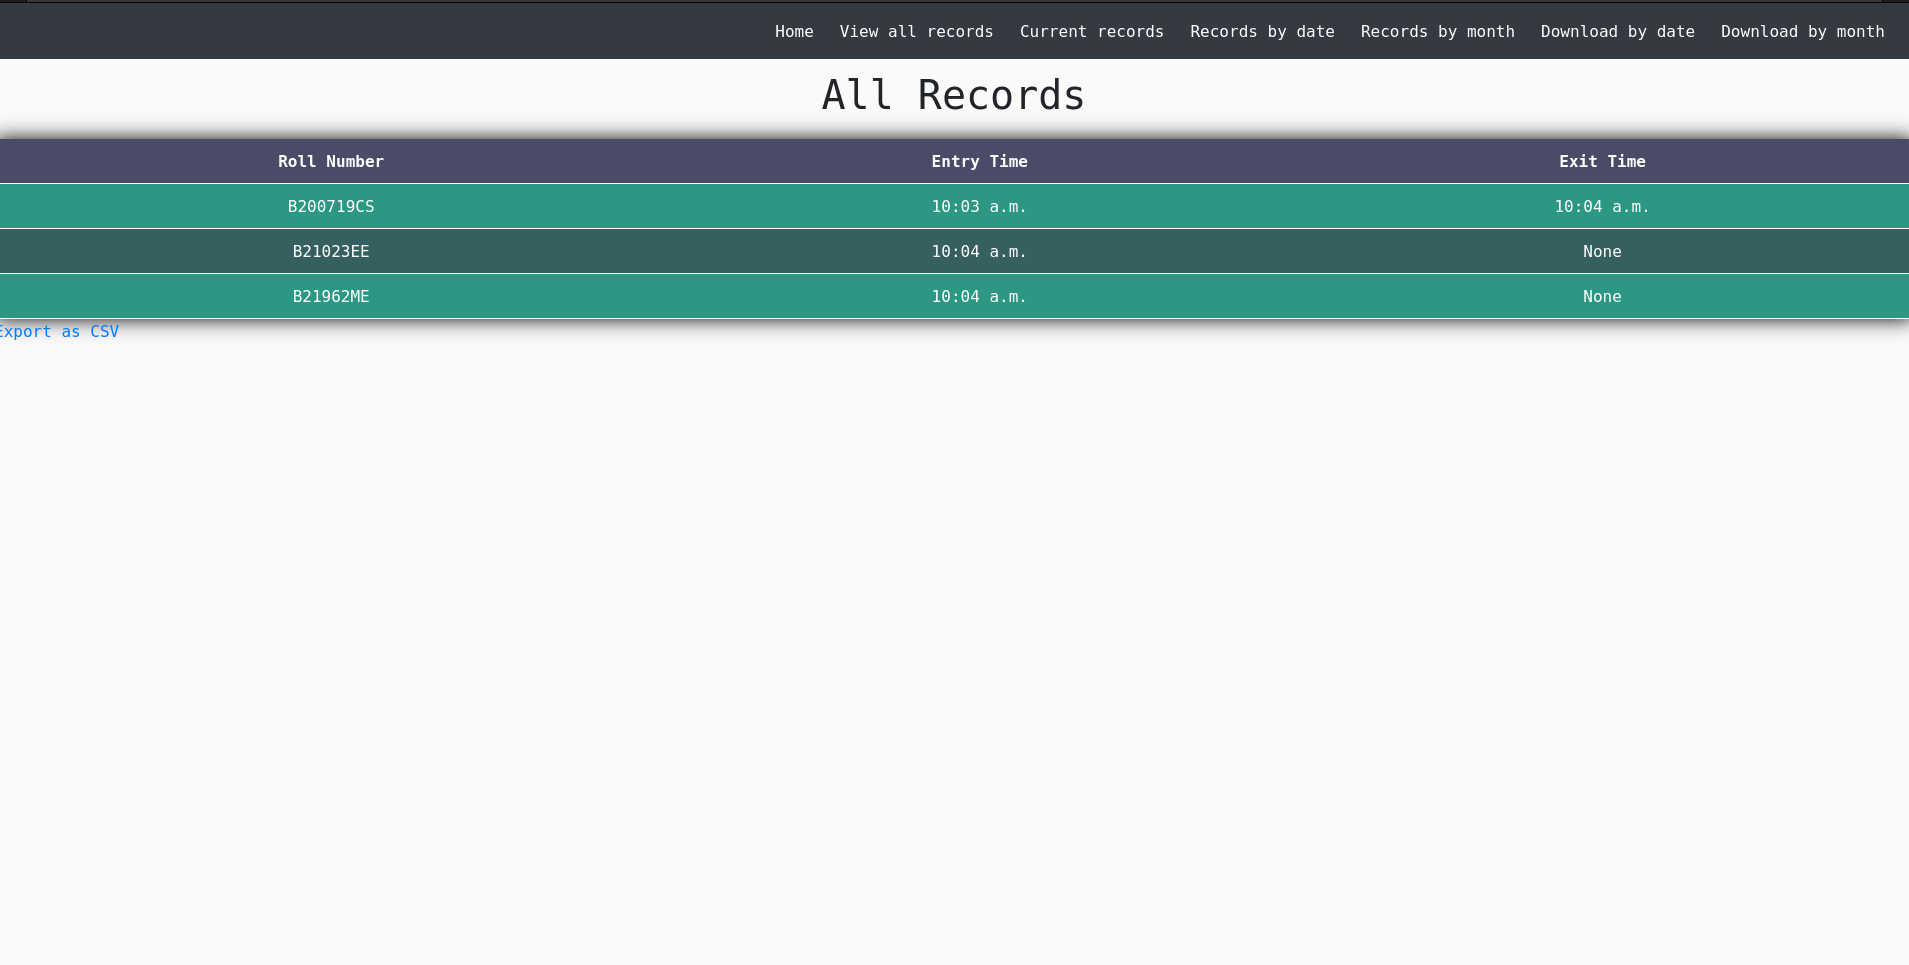
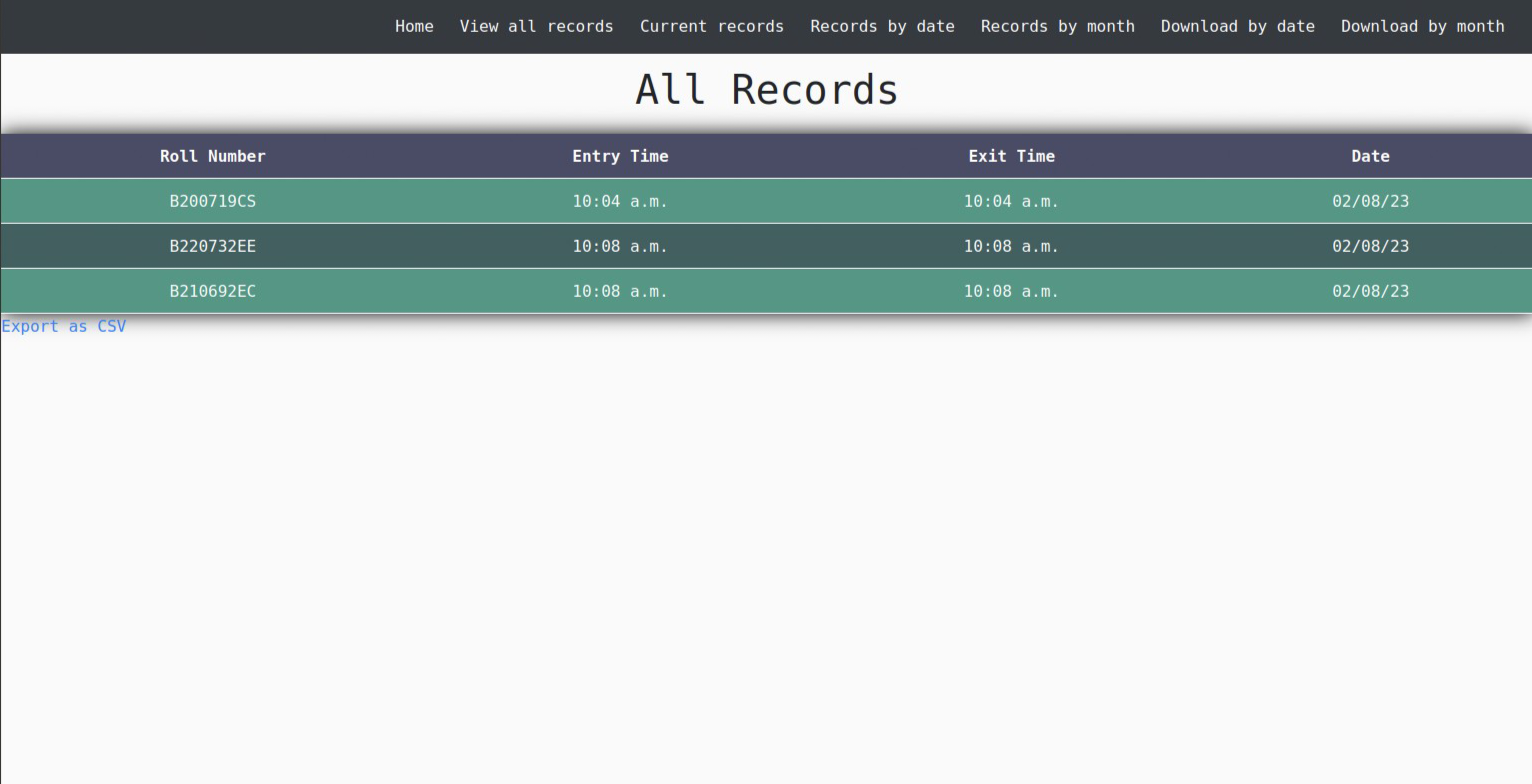
Added date to records

Changed region(s): [[0.0, 0.0, 1.0, 0.4286]]

diff --git a/enter/templates/allrecords.html b/enter/templates/allrecords.html
@@ -12,6 +12,7 @@
               <th>Roll Number</th>
               <th>Entry Time</th>
               <th>Exit Time</th>
+              <th>Date</th>
           </tr>
       </thead>
       <tbody>
@@ -20,6 +21,7 @@
               <td>{{ student.rollno }}</td>
               <td>{{ student.entrytime }}</td>
               <td>{{ student.exittime }}</td>
+              <td>{{ student.date|date:'d/m/y' }}</td>
           </tr>
           {% endfor %}
       </tbody>

diff --git a/enter/views.py b/enter/views.py
@@ -25,7 +25,7 @@ def library(request):
                 student_id = readData()
             except Exception as e:
                 # Handle the exception raised by readData()
-                message = "Error: Failed to read data from the reader. Please try again."
+                message = "Error: Failed to read data from the reader. Please try again later."
                 return render(request, 'library.html', {'form': StudentEntryExitForm(),'message':message,'x':x})
                 # You may want to log the error for further investigation
                 # logger.error(f"SocketError: {e}")
@@ -39,7 +39,7 @@ def library(request):
                 message="Student with roll number " +student_id+" has exited the library at "+str(current_time)
                 x=False
             else:
-                    record.objects.create(rollno=student_id, entrytime=datetime.now(),date=today)
+                    record.objects.create(rollno=student_id, entrytime=current_time,date=today)
                     message="Student with roll number "+student_id+" has entered the library at "+str(current_time)
                     x=True
         except record.DoesNotExist:
@@ -157,16 +157,6 @@ def readData():
 	out = out.decode()
 	out = ''.join([c if ord(c) != 0 else '' for c in out])
 
-	#print(out)
+	
 	return out
 
-
-
-def clear_all_entries():
-    try:
-        record.objects.all().delete()
-        return True
-    except Exception as e:
-        # You may want to log the error for further investigation
-        # logger.error(f"Error occurred while clearing entries: {e}")
-        return False
